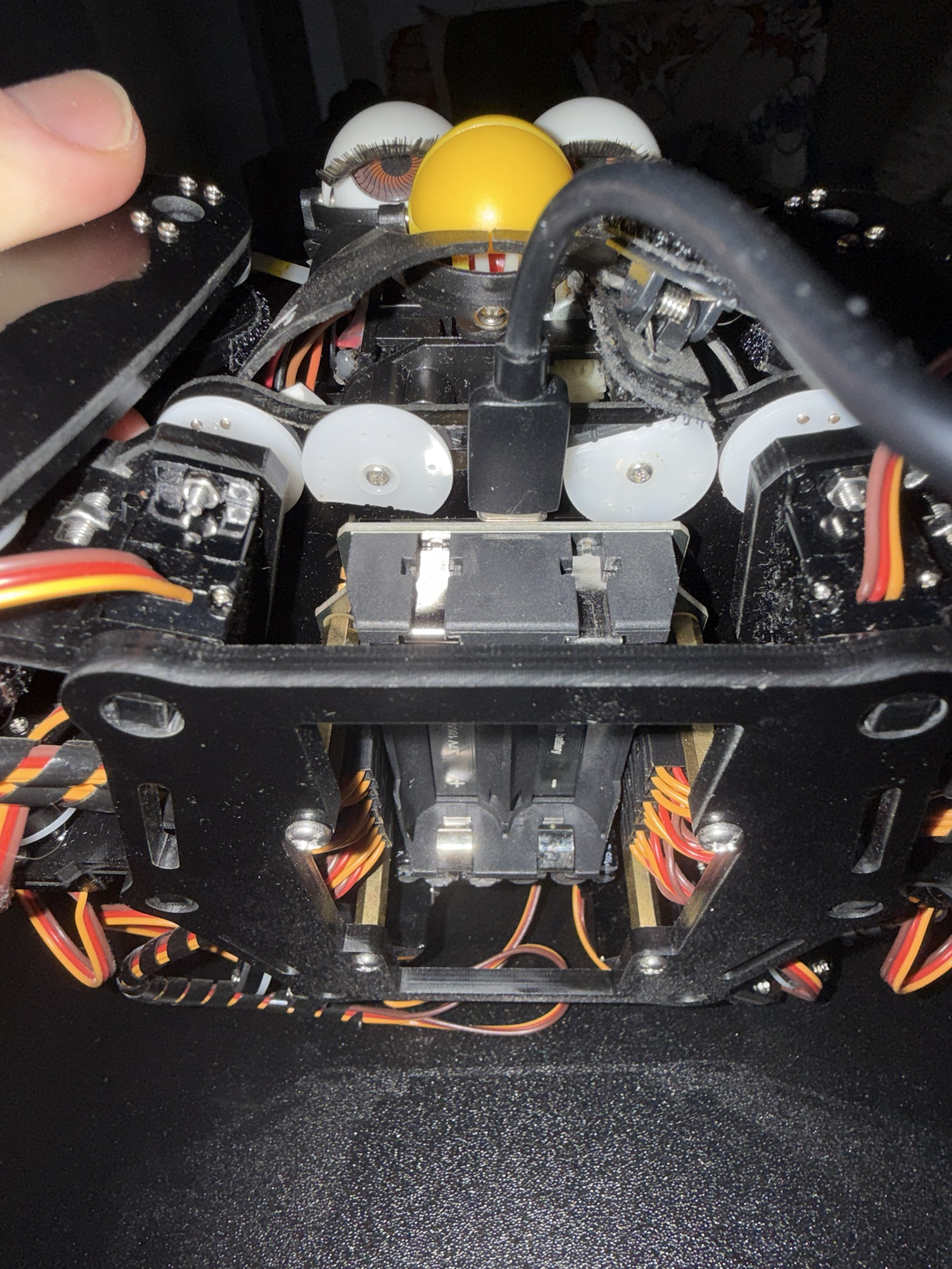
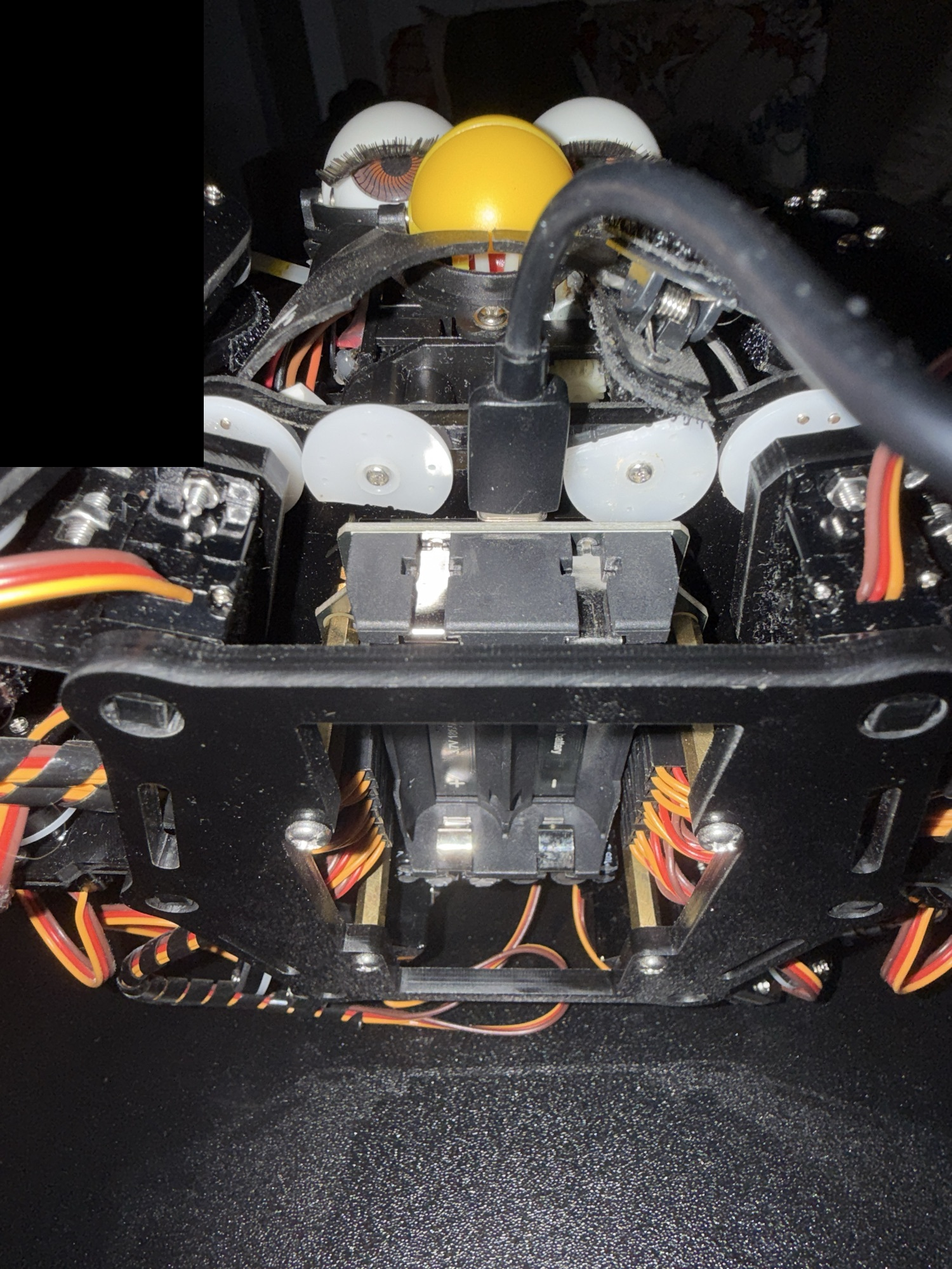
fix(privacy): redact hardware evidence and verify reviewed media

Changed region(s): [[0.0, 0.031, 0.2147, 0.372]]

diff --git a/docs/hardware/evidence/README.md b/docs/hardware/evidence/README.md
@@ -1,10 +1,8 @@
-# Original hardware photo evidence
+# Hardware photo evidence
 
-The operator explicitly requested that the supplied photos be committed, not
-left in temporary paste storage. The [2026-10-15 manifest](2026-10-15/manifest.json)
-maps all nine original uploaded JPEGs to descriptive filenames and SHA-256 hashes.
-The uploaded bytes are preserved without recompression. EXIF and visible content
-were reviewed before committing; no GPS EXIF fields were present.
+The [2026-10-15 manifest](2026-10-15/manifest.json) records file names, source
+hashes and observations. The chassis photograph uses an opaque mask over
+the hand and its reflection. The original is preserved in the private archive.
 
 ## Robot controller
 
@@ -44,7 +42,35 @@ earlier unreadable-revision and hidden-control notes. Do not infer ON/OFF from
 the plunger position alone. The leg image records an asymmetric position and an
 operator-reported symptom; it does not establish the mechanical/electrical cause.
 
-For later operator-designated hardware evidence, preserve the files and add
-provenance, hashes and observations in the same commit series. Never keep the only
-copy under `/tmp`. Do not automatically publish other private media or firmware
-dumps; preserve those privately and commit only permitted metadata.
+## Publishing camera evidence
+
+1. Save and retain the original outside the repository in the private archive.
+   Publish measurements and a written account when they are sufficient.
+2. Export a fresh derivative with a tight robot-only crop or opaque masks that
+   cover each person for the full affected interval. Include hands, fingers,
+   limbs, clothing and silhouettes, faces, reflections and screen images.
+   Cut any frame where you cannot reliably cover a person. Use only the
+   reviewed video stream. Remove audio, subtitles, data, source metadata
+   and chapters. Keep capture sidecars, thumbnails and original files private.
+3. Inspect the exported still or **every frame** of the exported clip at
+   full resolution, including cuts and first and last frames. If any human
+   part is visible or uncertain, re-export it or publish text only.
+   Automated detection can help locate regions to inspect.
+4. Record the final file's SHA-256 and path in
+   [reviewed-media.sha256](reviewed-media.sha256) after review. Record
+   the provenance and any masks/cuts in the evidence manifest.
+   Stage the artifact and the updated digest, then run
+   `bash tools/verify-public-media.sh` before committing. Run
+   `bash tools/verify-public-media.sh <commit>` on each outgoing
+   commit that changes media before pushing. Never stage a raw file
+   in an intermediate commit.
+
+Apply the same visual review to GitHub issue and PR attachments, release
+assets and workflow artifacts before upload. The repository check verifies the
+bytes of tracked common image and video formats. It cannot inspect the pixels
+or intercept uploads through the GitHub UI. Review media embedded in PDFs,
+SVGs and archives before publishing those containers.
+
+Git history can retain an earlier file after a replacement. The redacted
+chassis copy addresses the current tree. The earlier original may still
+be available through historical revisions or copies.

diff --git a/AGENTS.md b/AGENTS.md
@@ -101,6 +101,7 @@ hardware evidence, not an invented `CONTEXT.md` or ADR tree. See
 - Read `services/embodiment-gateway/AGENTS.md` and `docs/operations/hermes-robot.md` before Hermes robot-tool changes. Eight bounded powered actions are accepted only on the supported operator-present bench; this is not floor/autonomy qualification. Preserve working hardware, remotes and stock gait code. Do not infer that future safety qualification requires throwing out the controller or replacing all factory firmware.
 - Every agent must record hardware/firmware discoveries and changes in those JSON files in the same commit series: date, evidence status/provenance, before/after state, measurements, artifact hashes, verification, safety impact and rollback limits. Append firmware history for writes/configuration changes. Keep unknowns explicit; never infer an installed version from an echo or assign remote-board markings to the robot. Do not repeat established discovery unless needed to verify current state.
 - Preserve operator-designated hardware photographs in `docs/hardware/evidence/` with a manifest mapping original uploads, hashes and observed markings. Review privacy before committing. Read this evidence before requesting photos again; `/tmp` is not durable storage. The Freenove chassis, ESP-01/ESP8266EX and ATmega2560 bootloader identity/readback are already established; exact application release is separate from an installed-image hash. Lack of a release label or readable chip photo is not a reason to restart discovery.
+- Keep raw camera files and frames private. Follow the [camera evidence publication procedure](docs/hardware/evidence/README.md) before pushing media, attaching it to GitHub, or publishing it as a CI artifact. Every frame must be clear of human faces, bodies, limbs, fingers and reflections. Verify staged and outgoing media before a push.
 - No firmware write until actual board/MCU/output mapping, programming method, private preservation of the existing image where supported, reproducible replacement artifact and rollback limits are recorded. No Hermes motion until robot-local TTL/watchdog/STOP and supported-bench/cutoff acceptance pass. Stock-compatible echo alone does not meet these gates.
 - Treat `.schematics/` as navigation and planning aids, never as verified fabrication or wiring drawings.
 - Read `.schematics/README.md` and the paired sheet note before changing a hardware, audio, camera, or control-path claim.

diff --git a/.github/pull_request_template.md b/.github/pull_request_template.md
@@ -19,6 +19,7 @@ Describe the bounded observable outcome and relevant PLAN references.
 - [ ] Exact revisions/artifact hashes, limitations and rollback are recorded where applicable.
 - [ ] Independent review is recorded; code written or a green build alone is not acceptance.
 - [ ] No credentials, private endpoints, transcripts, voice assets, recordings or device identifiers are exposed.
+- [ ] Any camera derivative, including attachments, was reviewed frame by frame and contains no human body parts or reflections.
 - [ ] Hardware/profile/media changes, if any, stayed within explicit ownership and safety gates.
 
 Commands and observed results:
